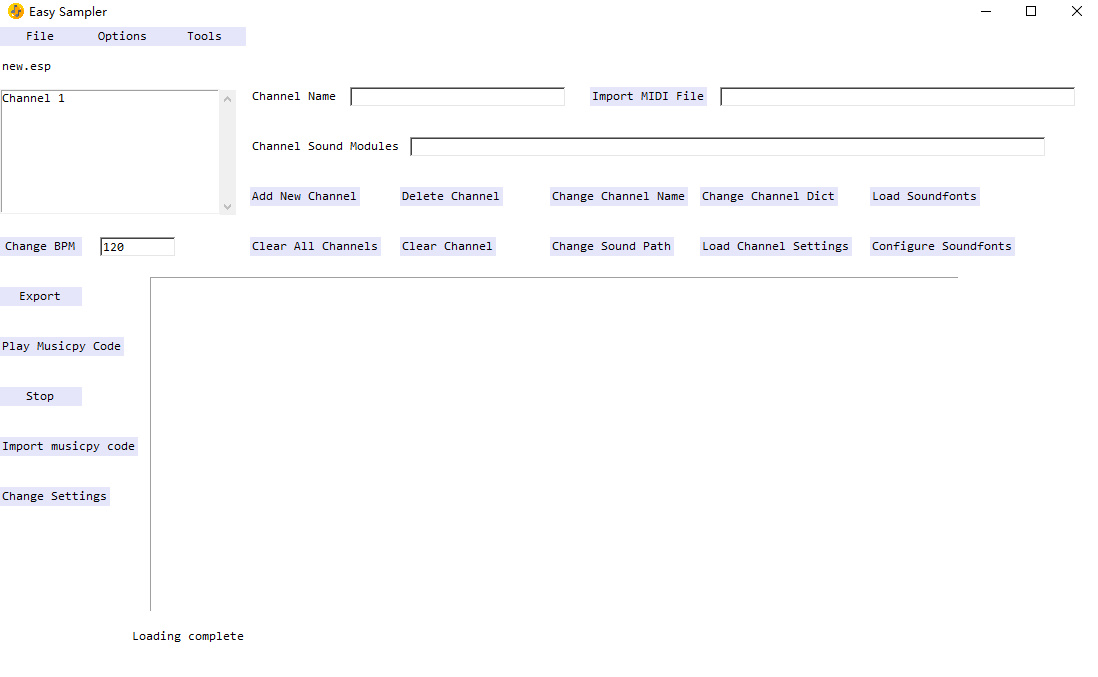
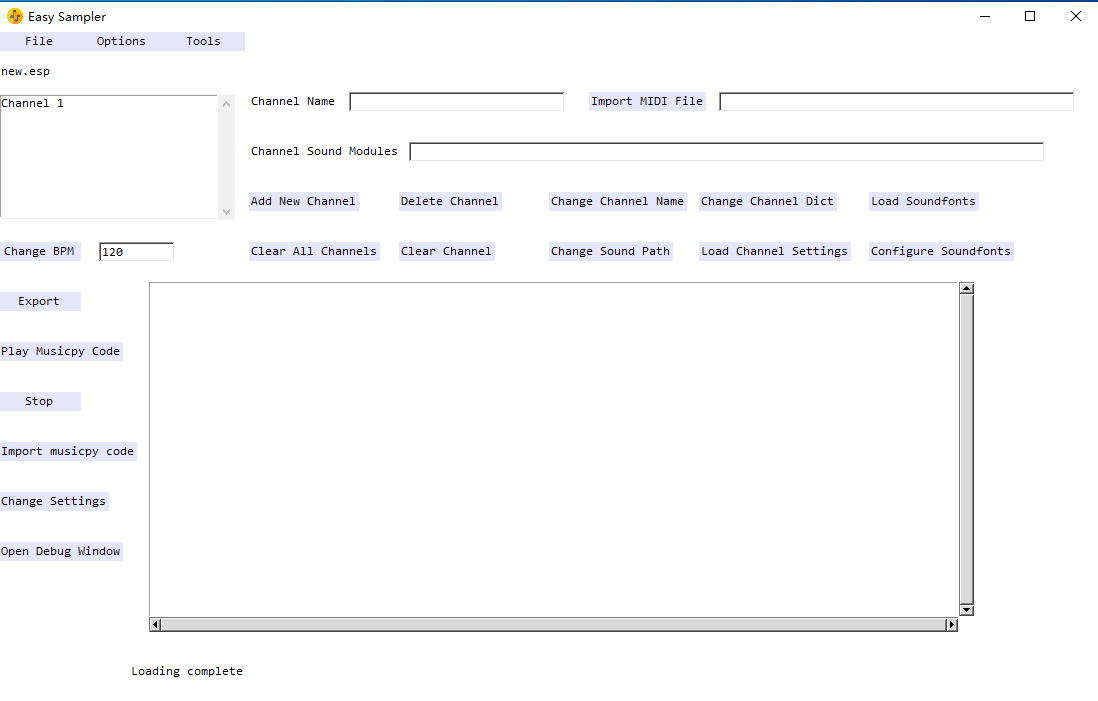
update

diff --git a/README.md b/README.md
@@ -68,6 +68,8 @@ Note that when you have any special effects, pans, volumes in your musicpy data 
 
 Update (2021/9/5): Now soundfonts files are supported, you can load any .sf2, .sf3, .dls files into this sampler and use it to play and export audio files, making music using soundfonts files with musicpy.
 
+Update (2021/10/12): Now there is a debug window, you can open the debug window first and then write `output(object1, object2, ...)` in the input text area, when you run the code, the objects in the `output` function will be printed in the debug window, the usage is like `print` function.
+
 # easy sampler
 
 [[English](#easy-sampler)] [中文]
@@ -136,4 +138,6 @@ Update (2021/9/5): Now soundfonts files are supported, you can load any .sf2, .s
 `esp`是我专门为easy sampler发明的工程文件格式，它代表`Easy Sampler Project`，它存储了你当前工程的信息，你可以随时把你当前的工程进度保存到esp文件中，并在easy sampler中再次打开esp文件来重新加载。
 
 更新 (2021/9/5): 现在已经添加对于soundfonts音源文件的支持，你可以加载任何的.sf2, .sf3, .dls 音源文件到这个取样机中来播放和导出音频文件，用soundfonts音源文件和musicpy来制作音乐。
+
+更新 (2021/10/12): 新增调试窗口，你可以打开调试窗口，然后在输入文本区写 `output(object1, object2, ...)`, 当你运行代码, 在 `output` 函数里的对象会被打印到调试窗口中, 用法与 `print` 函数相同。
 
